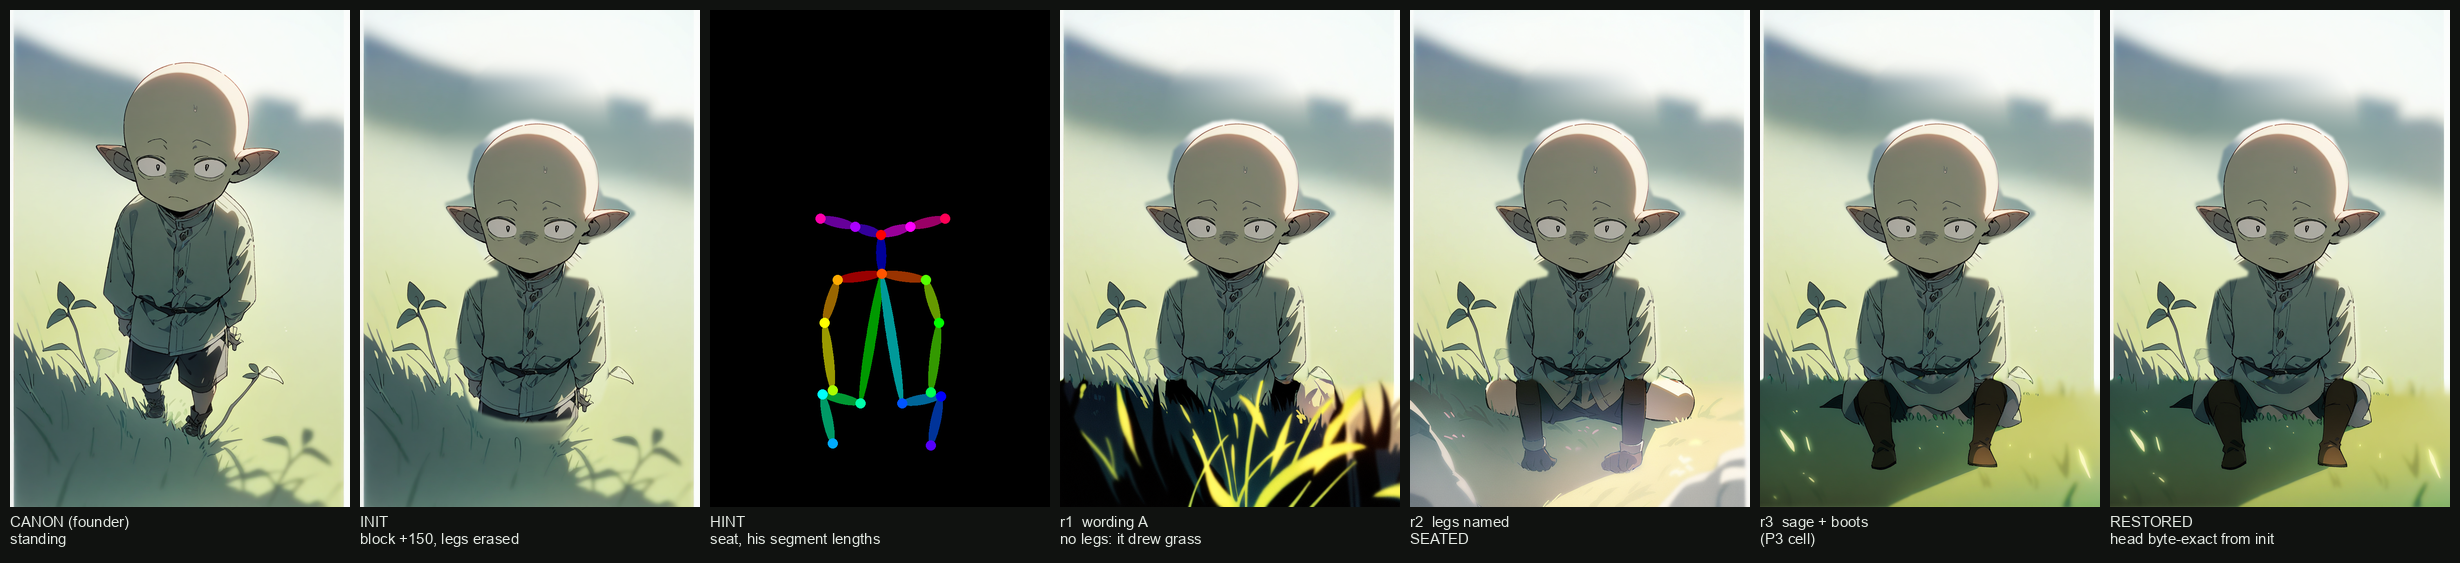
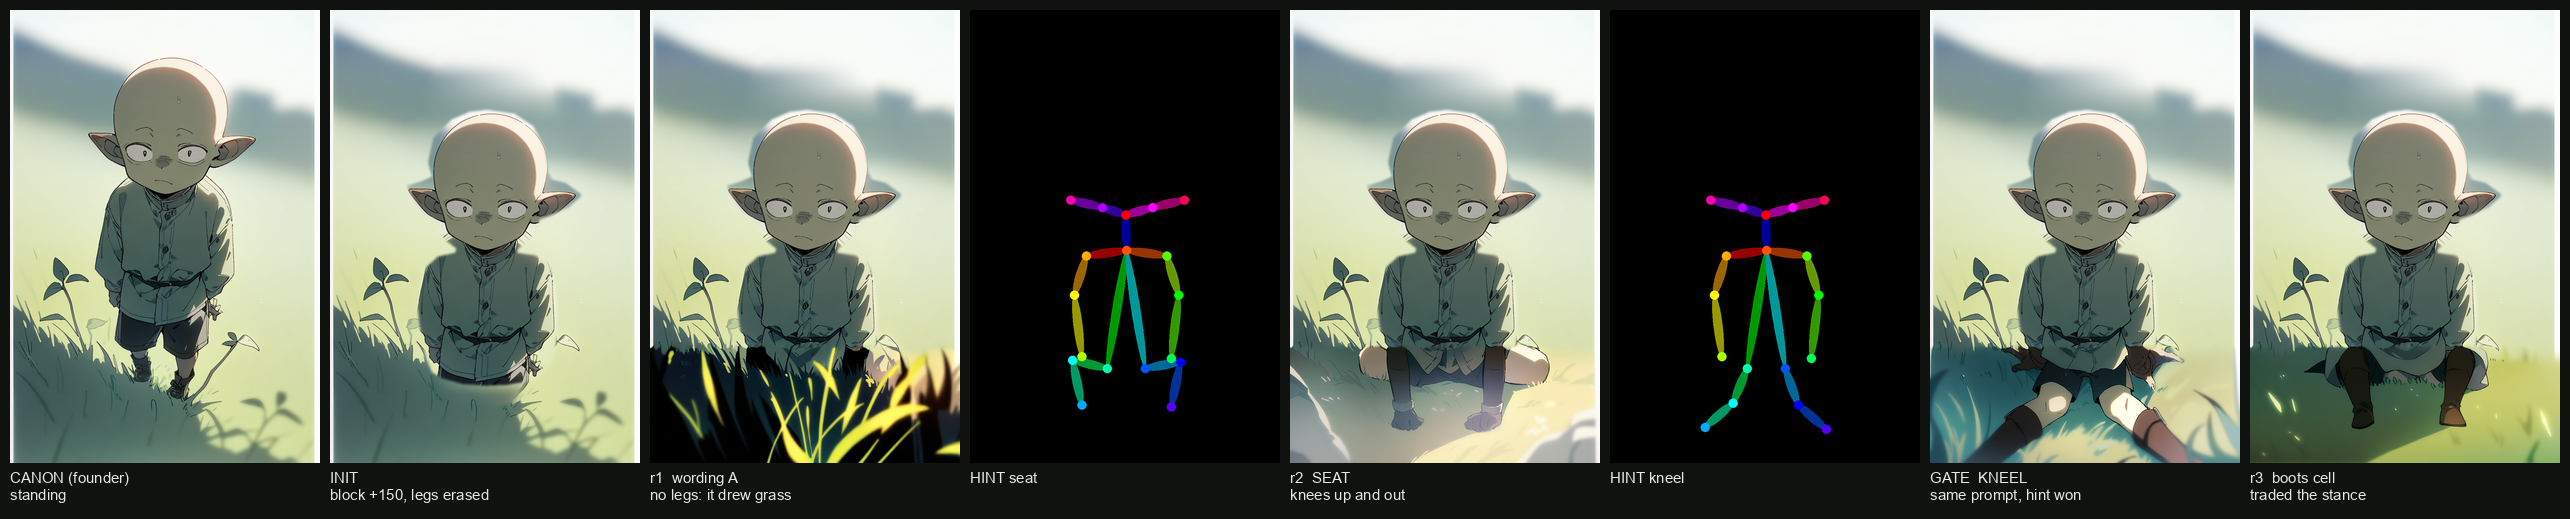
the gate passed: the hint carries the geometry and it beat a contradicting noun
The generalisation cell kept round two's positive byte for byte -- it still says
seated -- and swapped only the skeleton for a kneel. The legs knelt. Limb mass
at y 1180 is 245 px against round two's 0, and at y 1040 it spans x 0..746
against round two's 0..567: the legs go down and forward instead of up and out,
which is what the hint asked for and the opposite of what the word asked for.

That settles the division of labour on this route and it is clean. The noun
decides WHETHER a body is drawn in the masked region -- round one drew grass
because grass was the only noun on offer. The skeleton decides WHAT SHAPE it is.
And when they disagree the skeleton wins. So the v3 stance set is a
hint-authoring job: four PNGs and about eight minutes of card, with no
per-stance wording round, and the init and mask are shared byte for byte across
all of them.

Identity held again at mean absolute delta 1.152, the fourth frame running.

diff --git a/pipeline/goblin-lowerbody-route-0822.md b/pipeline/goblin-lowerbody-route-0822.md
@@ -1,6 +1,6 @@
 # The masked lower-body pass — how the goblin finally sat down
 
-**2026-08-22, the v3 lane.** Three samples, about seventy-five seconds of card,
+**2026-08-22, the v3 lane.** Four samples, about a hundred seconds of card,
 `$0`. Written because the pose problem is solved and the next lane should
 inherit the mechanism rather than the ladder.
 
@@ -20,7 +20,7 @@ inherit the mechanism rather than the ladder.
       pastes the init's own rows 0..883 back, byte for byte, asserted.
 
 Assets: `pipeline/author_jerry_lowerbody_0822.py` (`--write`).
-Jobs: `ep2-b13-lowerbody-0822`, `-w2-`, `-w3-`.
+Jobs: `ep2-b13-lowerbody-0822`, `-w2-`, `-w3-`, `-kneel-`.
 Evidence: `farm-out/ep2-goblin-lowerbody-0822/` (contact sheets + the two
 restored frames; the raw renders land under `farm-out/ep2-b13-lowerbody-*-0822/`
 by courier). NOT `review/` -- `.gitignore:60` is `review/**/*.png`, so evidence
@@ -60,6 +60,7 @@ tree (four of four postures, twopass CORRECTION §3).
 | r1 | the mask (all-white → below y 900), strength 0.35 → 0.95 | head HELD at 0.95 (mean abs delta 1.247). **No legs at all**: the band filled with tall grass, row luminance 128 → 73 across y 880..1000. |
 | r2 | the wording: `in tall grass` out, `seated, bare legs, dark shorts, dark boots` in | **SEATED.** Knees up and out past the authored hint, shins descending, feet planted. Seam invisible. One figure. Thighs pale on the lit side; feet are paws. |
 | r3 | the wording again, aimed at P3: `bare sage green legs`, `dark leather boots` | Real boots with soles and heels — and they run knee-high and hide the thighs, and the stance narrows. Not better than r2, differently wrong. |
+| **gate** | **the hint only** — seat → kneel, with the positive still saying `seated`, byte-identical | **THE HINT WON.** The legs go down and forward instead of up and out: limb mass at y 1180 is 245 px against r2's 0, and at y 1040 it spans x 0..746 against r2's 0..567. Against a contradicting noun. |
 
 Held across all three: init sha, mask sha, hint sha, net, scale 1.0,
 `--pad-crop 0`, 40 steps, cfg 7.5, seed 20260823, no LoRA.
@@ -83,7 +84,14 @@ Held across all three: init sha, mask sha, hint sha, net, scale 1.0,
 4. **The seam is a non-problem.** It was the pre-registered most-likely failure
    — a shirt cut off at a horizontal line, continued into a lap by a sampler —
    and it is invisible in the landed frames at 1:1.
-5. **The protected region is NOT byte-exact, and the reason is mechanical.**
+5. **The hint carries GEOMETRY; the prompt carries CONTENT; and they were made
+   to argue on purpose.** The gate cell kept the word `seated` in the positive
+   and swapped only the skeleton for a kneel. The legs knelt. So the stance set
+   is a hint-authoring job: four PNGs and about eight minutes of card, with no
+   per-stance wording round. Taken with finding 2, the division is clean — the
+   noun decides WHETHER a body is drawn in the region, the skeleton decides WHAT
+   SHAPE it is, and the skeleton wins when they disagree.
+6. **The protected region is NOT byte-exact, and the reason is mechanical.**
    diffusers only re-pastes in PIXEL space inside its `padding_mask_crop` branch
    (`apply_overlay`), and this route runs `--pad-crop 0` deliberately, so the
    head survives as latents and takes one VAE round trip: 95% of pixels move by
@@ -104,8 +112,9 @@ canon's own bare shin (RGB 120.4 / 130.0 / 110.4, sampled at 355..385 x
 925..945), which is `$0`, has no sampler in it, and is the house tradition —
 `beat20_fig_recolor.py`.
 
-**The stance set is NOT queued**, deliberately, and the reason is a dataset
-design question rather than a rendering one. Every frame this route makes off
+**The stance set is NOT queued**, and the reason is no longer "does the route
+generalise" — the gate answered that — it is a dataset design question rather
+than a rendering one. Every frame this route makes off
 the canon shares ONE upper body, byte for byte. Six of those in a v3 set would
 teach the trigger that upper body. **The fix is to run the same masked pass on
 the 21 FOUNDER-RATIFIED FRAMES** of `manifest-jerry-v2-0822.yaml` instead of on
@@ -113,6 +122,18 @@ the canon alone: each has its own torso, its own arms and its own light, and the
 mask makes each one a posed frame of him with a different upper body. That needs
 a per-frame cut line and hip measurement, which is a script rather than a
 research question.
+
+**One more thing the gate bought at $0, and it is a guard finding.** Its first
+attempt refused on the card in two seconds: `SHA MISMATCH for
+jerry-kneel-hint-0822.png -- want da14ee0b, have 7f1655bb`, rc=1, no model
+loaded. The retoken had renamed the hint everywhere including inside its fetch
+URL, but the SHA is a SECOND string and it appears twice — in the argv and in
+the inherited `fetch_init.py` payload — and only the argv had been overridden.
+A wrong hint would have rendered a perfectly plausible frame answering a
+different question. **The fix is to retoken the hash rather than override one
+copy of it**, for the same reason `derive_spec` retokens ids and directory
+tokens: a retoken reaches every copy of a string by construction, an override
+reaches the one place its author remembered.
 
 ## 5. What this does not do
 
